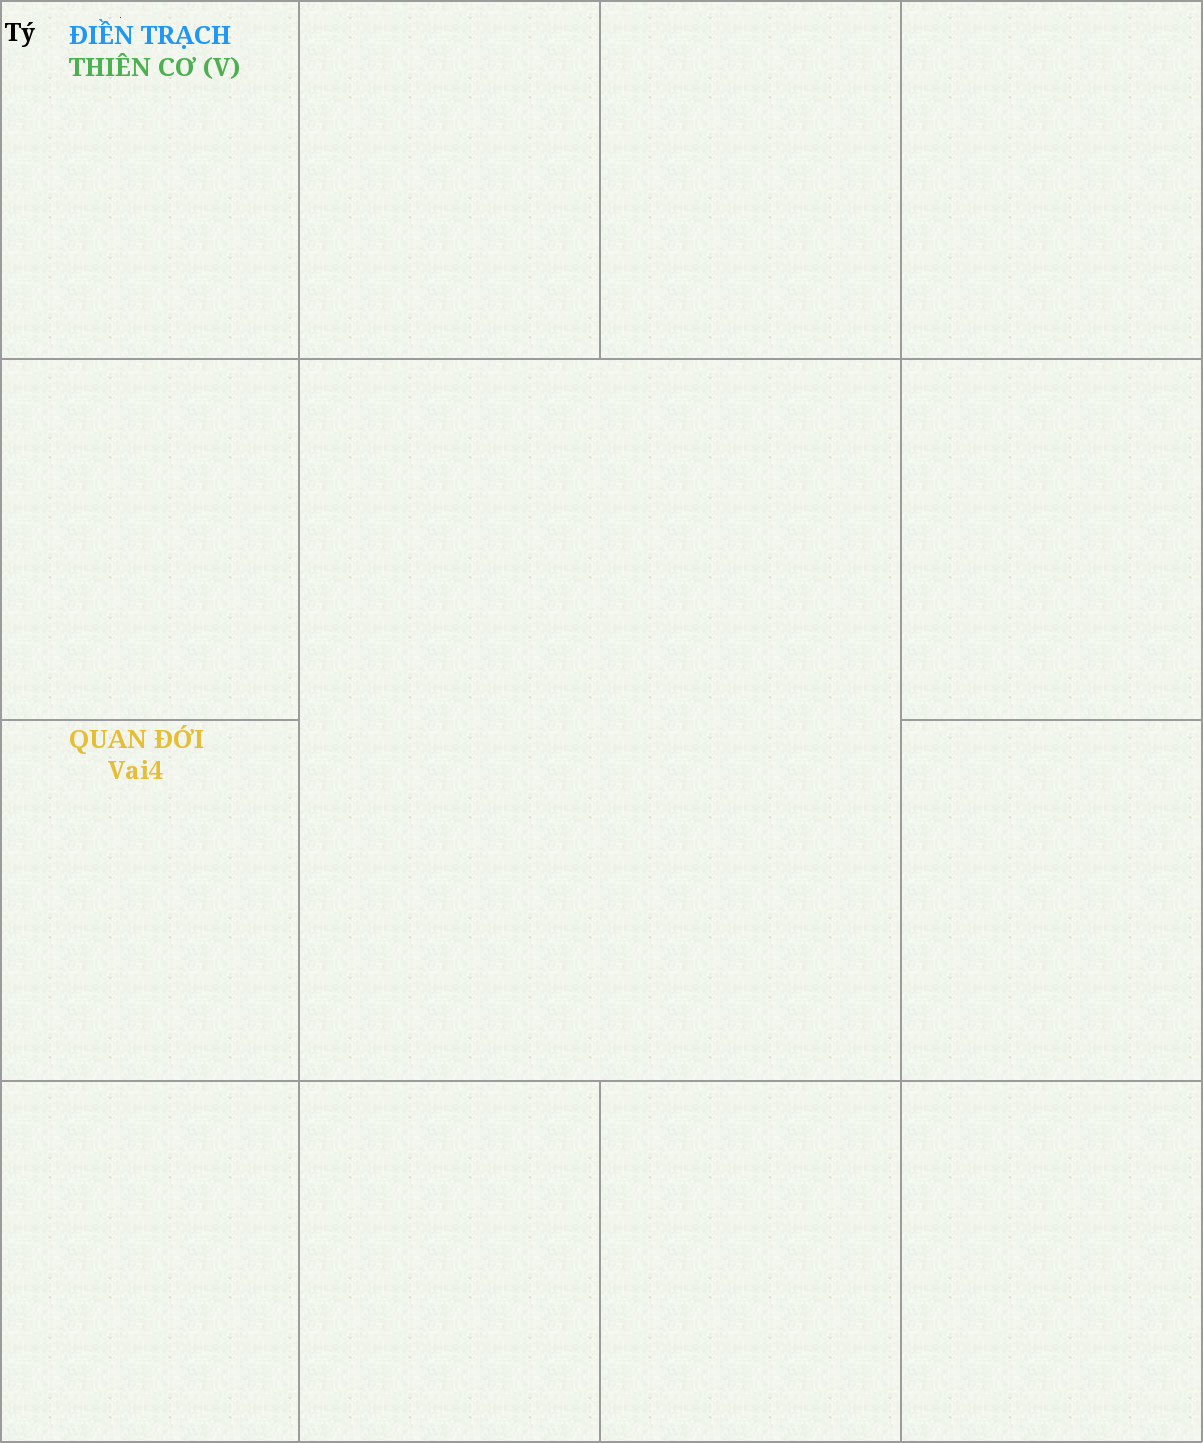
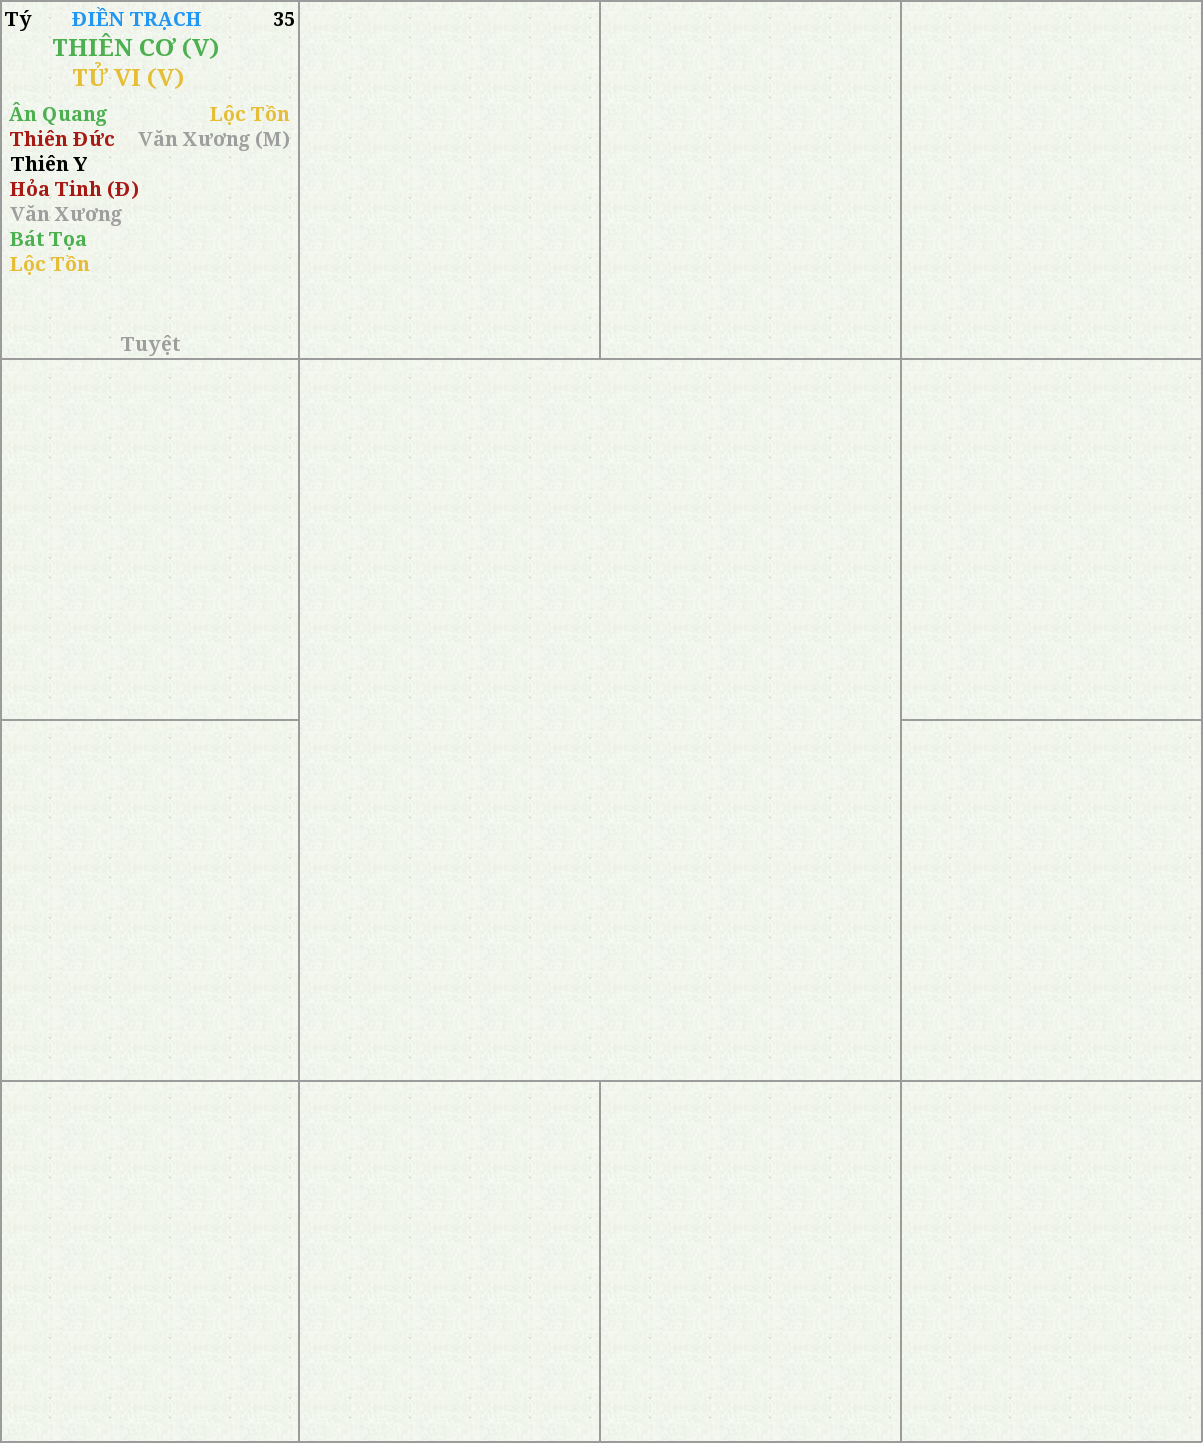
update

diff --git a/imgbackend/ToImage.py b/imgbackend/ToImage.py
@@ -7,8 +7,9 @@ BASE_DIR = os.path.dirname(os.path.dirname(os.path.abspath(__file__)))
 base = Image.open(os.path.join(BASE_DIR, 'imgbackend', 'background.png'))
 
 # get a font
-fontChinhTinh = ImageFont.truetype('imgbackend/noto-serif/NotoSerif-Bold.ttf', 25)
-fontPhuTinh = ImageFont.truetype('imgbackend/noto-serif/NotoSerif-Bold.ttf', 25)
+fontChinhTinh = ImageFont.truetype('imgbackend/noto-serif/NotoSerif-Bold.ttf', 24)
+fontPhuTinh = ImageFont.truetype('imgbackend/noto-serif/NotoSerif-Bold.ttf', 20)
+fontCungTen = ImageFont.truetype('imgbackend/noto-serif/NotoSerif-Bold.ttf', 20)
 
 # màu ngũ hành
 hanhKim = "#9E9E9E"
@@ -40,13 +41,30 @@ draw.line([0, y/2-2, x/4-2, y/2-2], fill=(0, 0, 0, 100), width=width)
 draw.line([3*x/4-2, y/2-2, x-2, y/2-2], fill=(0, 0, 0, 100), width=width)
 # Hoàn thành phần khung
 
-draw.text((5, (x/40-2)/2), u"Tý", font=fontPhuTinh, fill=(0, 0, 0))
+draw.text((5, 5), u"Tý", font=fontPhuTinh, fill=(0, 0, 0))
+draw.text((295-fontPhuTinh.getsize(u"35")[0], 5), u"35", font=fontPhuTinh, fill=(0, 0, 0))
 msg = u"ĐIỀN TRẠCH"
 w, h = fontChinhTinh.getsize(msg)
-draw.point((x/10, (y/40-2)/2), fill=hanhHoa)
-draw.multiline_text((x/8-w/2, (y/40-2)/2), msg, font=fontChinhTinh, fill=cungTen, align="center")
-draw.multiline_text((x/8-w/2, (y/40-2)/2+h), u"THIÊN CƠ (V)", font=fontChinhTinh, fill=hanhMoc, align="center")
-draw.multiline_text((x/8-w/2, y/2), u"QUAN ĐỚI\nVai4", font=fontChinhTinh, fill=hanhTho, align="center")
+draw.text((x/8-w/2, 5), msg, font=fontCungTen, fill=cungTen)
+
+# Chính tinh
+draw.text((x/8-w/2-20, 30), u"THIÊN CƠ (V)", font=fontChinhTinh, fill=hanhMoc)
+draw.text((x/8-w/2, 60), u"TỬ VI (V)", font=fontChinhTinh, fill=hanhTho)
+
+# Phụ Tinh
+draw.text((10, 100), u"Ân Quang", font=fontPhuTinh, fill=hanhMoc)
+draw.text((10, 125), u"Thiên Đức", font=fontPhuTinh, fill=hanhHoa)
+draw.text((10, 150), u"Thiên Y", font=fontPhuTinh, fill=hanhThuy)
+draw.text((10, 175), u"Hỏa Tinh (Đ)", font=fontPhuTinh, fill=hanhHoa)
+draw.text((10, 200), u"Văn Xương", font=fontPhuTinh, fill=hanhKim)
+draw.text((10, 225), u"Bát Tọa", font=fontPhuTinh, fill=hanhMoc)
+draw.text((10, 250), u"Lộc Tồn", font=fontPhuTinh, fill=hanhTho)
+
+draw.text((290-fontPhuTinh.getsize(u"Lộc Tồn")[0], 100), u"Lộc Tồn", font=fontPhuTinh, fill=hanhTho)
+draw.text((290-fontPhuTinh.getsize(u"Văn Xương (M)")[0], 125), u"Văn Xương (M)", font=fontPhuTinh, fill=hanhKim)
+
+# Truong sinh
+draw.text((x/8-fontPhuTinh.getsize(u"Tuyệt")[0]/2, 330), u"Tuyệt", font=fontPhuTinh, fill=hanhKim)
 
 base.save('imgbackend/test.png', 'PNG')
 print "fine"
